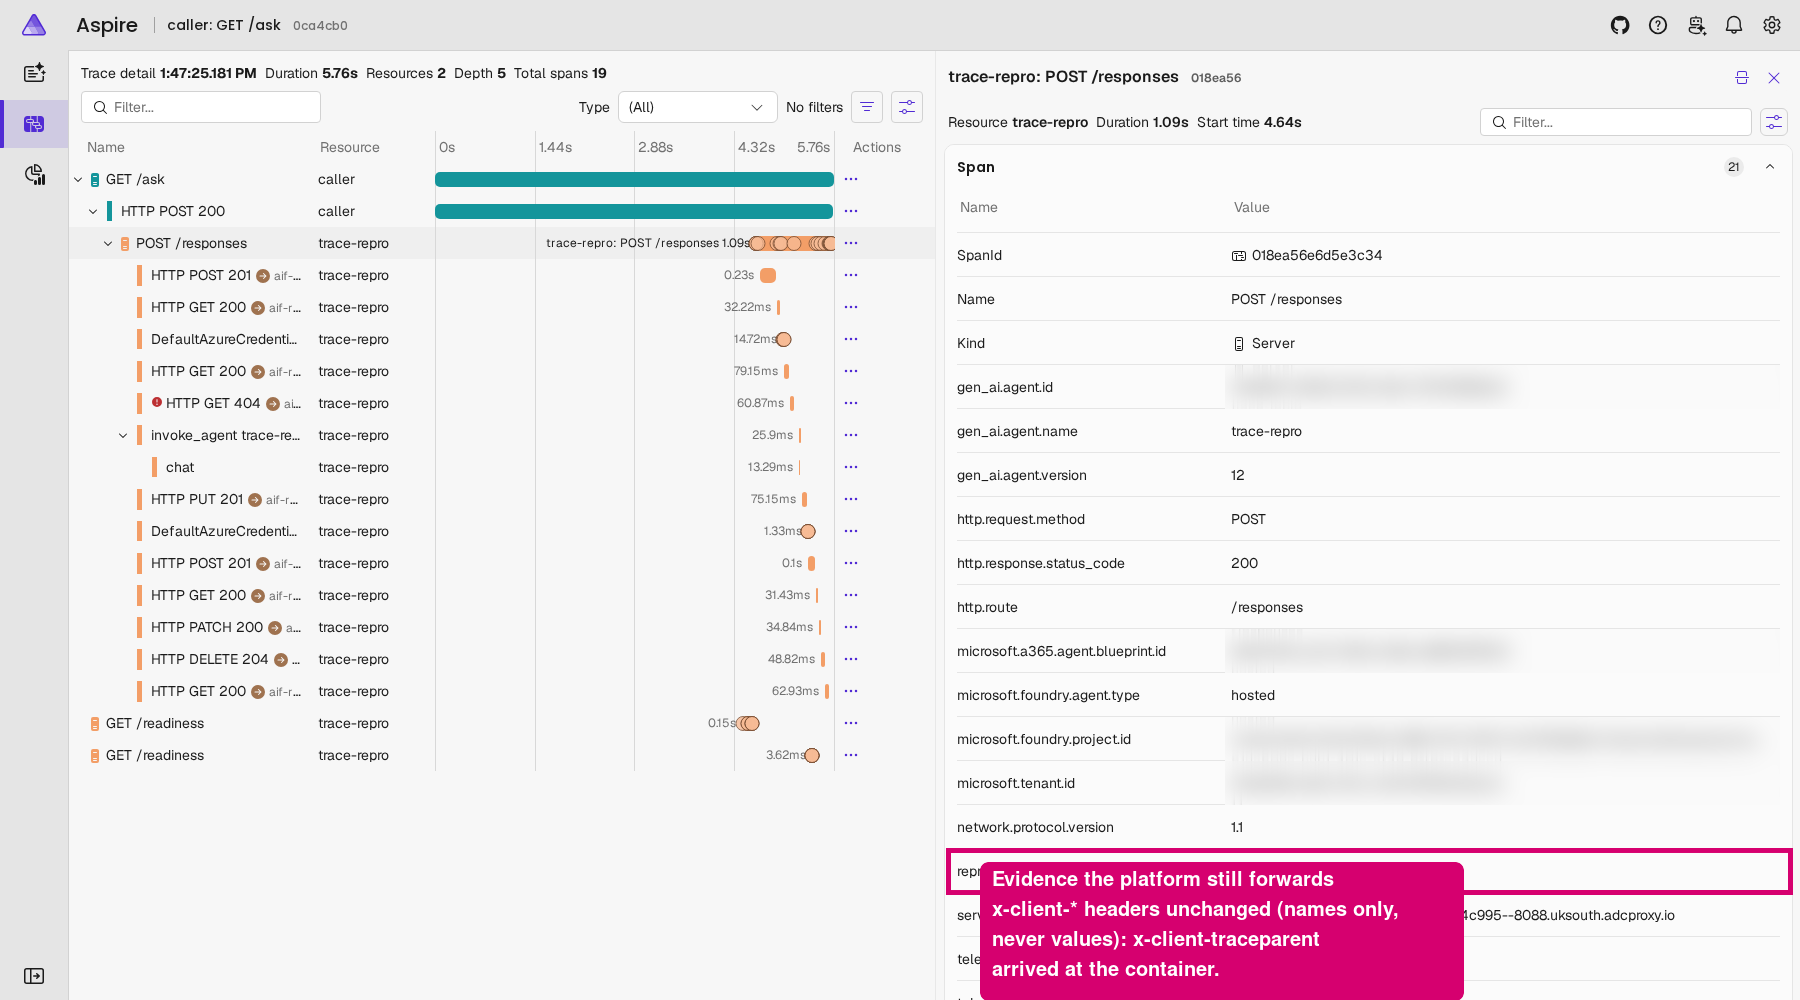
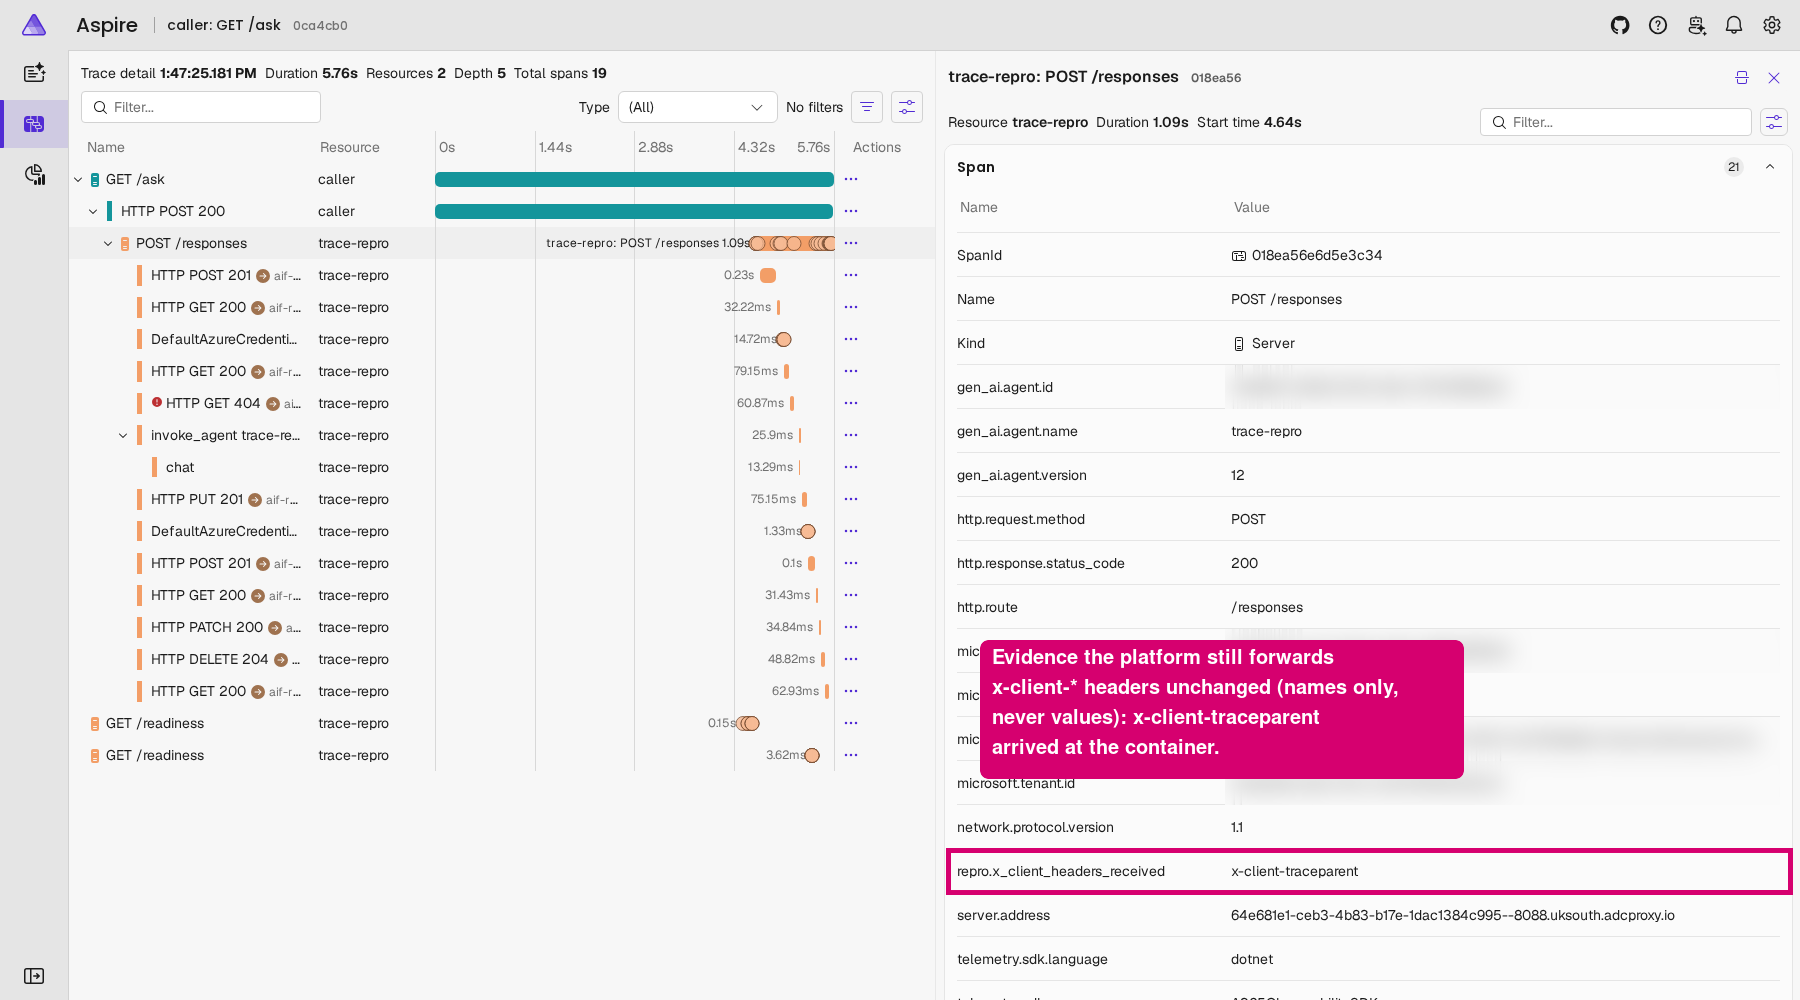
Address PR review: fix callout, drop forced sampling, trim history
- docs/images/08-xclient-headers-received.png: move the pink callout so
  it no longer covers the repro.x_client_headers_received value; it now
  sits over the already-blurred rows above the outlined one, matching
  the 3ad5a78 layout. Re-annotated from the redacted (unannotated)
  capture, redaction and -strip unchanged.
- agent/ClientHeaderLink.cs: sample PropagationData instead of
  AllDataAndRecorded. The listener only needs ActivityStarted to add its
  link; forcing AllDataAndRecorded overrode the distro's own sampler for
  every Microsoft.AspNetCore activity.
- README: cut the A365 debugging-history paragraph to one sentence
  (both overrides are needed, one alone does not join), and drop the
  "earlier attempt" asides from step 2 and the ClientHeaderTraceParent
  doc comment.
- README/Program.cs: both now say the DI propagator is captured inside
  WebApplication.CreateSlimBuilder (confirmed against AgentHostBuilder's
  constructor), which AgentHost.CreateBuilder calls.
- README: link the Microsoft Learn doc for the x-client- pass-through
  header contract (hosted-agent-contract#forward-custom-request-headers-to-your-container),
  found via search, not invented.

Claude-Session: https://claude.ai/code/session_01Ttd2BrYapGTagWFKUjK6Yt

Changed region(s): [[0.5289, 0.837, 0.84, 1.0], [0.5289, 0.62, 0.84, 0.806]]

diff --git a/agent/ClientHeaderLink.cs b/agent/ClientHeaderLink.cs
@@ -25,7 +25,10 @@ internal static class ClientHeaderLink
         ActivitySource.AddActivityListener(new ActivityListener
         {
             ShouldListenTo = source => source.Name == AspNetCoreSourceName,
-            Sample = (ref ActivityCreationOptions<ActivityContext> _) => ActivitySamplingResult.AllDataAndRecorded,
+            // PropagationData, not AllDataAndRecorded: this listener only needs ActivityStarted to add a
+            // link, and must not force every Microsoft.AspNetCore activity to be recorded -- that
+            // decision belongs to the distro's own sampler, via its own ActivityListener on this source.
+            Sample = (ref ActivityCreationOptions<ActivityContext> _) => ActivitySamplingResult.PropagationData,
             ActivityStarted = activity => AddPlatformLinkIfDifferent(activity, httpContextAccessor.HttpContext),
         });
 

diff --git a/agent/ClientHeaderTraceParent.cs b/agent/ClientHeaderTraceParent.cs
@@ -8,8 +8,7 @@ namespace FixedReplyAgent;
 /// agrees. If they disagreed, OpenTelemetry's ASP.NET Core instrumentation would see its own extraction
 /// (via <see cref="ClientHeaderTextMapPropagator"/>) differ from the parent the hosting layer already
 /// gave the activity (via <see cref="ClientHeaderContextPropagator"/>) and would discard that activity,
-/// starting a replacement server span parented to its own extraction instead -- see the README's
-/// "Workaround" section for why that is what actually broke the join the first time around.
+/// starting a replacement server span parented to its own extraction instead.
 /// </summary>
 internal static class ClientHeaderTraceParent
 {

diff --git a/README.md b/README.md
@@ -119,7 +119,7 @@ SUBSCRIPTION=<subscription-id> ./teardown.sh
 
 ## Workaround: x-client-* headers
 
-The asks above still stand: this is a workaround, not a fix, built after being told Foundry's hosted-agent runtime forwards `x-client-*`-prefixed headers unchanged, while it rewrites the plain `traceparent`. The idea: have the caller send its real parent twice, once as the plain `traceparent` (which the platform rewrites) and once as `x-client-traceparent` (which it does pass through), and have the agent prefer the second one when extracting its own context. **It works:** with the switch on, the agent's `POST /responses` is a child of the caller's `POST`, in one connected trace.
+The asks above still stand: this is a workaround, not a fix, built on the documented [pass-through client header prefix](https://learn.microsoft.com/en-us/azure/foundry/agents/concepts/hosted-agent-contract#forward-custom-request-headers-to-your-container), `x-client-`, which the gateway forwards to the container unchanged, unlike the plain `traceparent`. The idea: have the caller send its real parent twice, once as the plain `traceparent` (which the platform rewrites) and once as `x-client-traceparent` (which it does pass through), and have the agent prefer the second one when extracting its own context. **It works:** with the switch on, the agent's `POST /responses` is a child of the caller's `POST`, in one connected trace.
 
 It is a deploy-time switch, off by default: `clientHeaderPropagation bool = false` in `infra/main.bicep`, wired to a `CLIENT_HEADER_PROPAGATION` environment variable on both the caller container and the agent version. Deploy with it on:
 
@@ -133,14 +133,14 @@ CLIENT_HEADER_PROPAGATION=true SUBSCRIPTION=<subscription-id> ./deploy.sh
 
 **Agent side**, when on, two separate overrides both have to be in place, or the join does not happen:
 
-1. `agent/ClientHeaderContextPropagator.cs` is a `DistributedContextPropagator` that prefers `x-client-traceparent`/`x-client-tracestate`/`x-client-baggage` when present and valid, falling back to the platform's default otherwise. Getting this registered in the right place took checking the hosting library's own source: `Sdk.SetDefaultTextMapPropagator` and `DistributedContextPropagator.Current` are both the *wrong* extension point here, because ASP.NET Core's hosting layer resolves the propagator for its own server-span creation from DI (`services.TryAddSingleton(DistributedContextPropagator.Current)`, captured once while `AgentHost.CreateBuilder` sets up its `WebApplication` builder, before application code runs), not by re-reading `.Current` per request. So the override is registered as a later DI singleton instead, which wins:
+1. `agent/ClientHeaderContextPropagator.cs` is a `DistributedContextPropagator` that prefers `x-client-traceparent`/`x-client-tracestate`/`x-client-baggage` when present and valid, falling back to the platform's default otherwise. Getting this registered in the right place took checking the hosting library's own source: `Sdk.SetDefaultTextMapPropagator` and `DistributedContextPropagator.Current` are both the *wrong* extension point here, because ASP.NET Core's hosting layer resolves the propagator for its own server-span creation from DI (`services.TryAddSingleton(DistributedContextPropagator.Current)`, captured once inside `WebApplication.CreateSlimBuilder`, which `AgentHost.CreateBuilder` calls to set up its builder before application code runs), not by re-reading `.Current` per request. So the override is registered as a later DI singleton instead, which wins:
 
    ```csharp
    builder.Services.AddSingleton<DistributedContextPropagator>(
        new ClientHeaderContextPropagator(DistributedContextPropagator.Current));
    ```
 
-2. `agent/ClientHeaderTextMapPropagator.cs`, installed with `Sdk.SetDefaultTextMapPropagator` from inside `ConfigureOpenTelemetryTracerProvider` (so it runs after `AgentHost.CreateBuilder` has installed its own default, and wins). This one was the missing piece in an earlier attempt at this workaround, which shipped only the DI propagator above and still saw the agent's span parented to the platform's rewritten `traceparent`. The DI propagator **does** correctly parent the ASP.NET Core activity to `x-client-traceparent` — but OpenTelemetry's ASP.NET Core instrumentation (`OpenTelemetry.Instrumentation.AspNetCore`) performs a *second*, independent extraction of its own, from `Propagators.DefaultTextMapPropagator`, to decide what to export. When that second extraction's trace id, parent span id or trace state disagree with the activity the DI propagator already parented, the instrumentation discards that activity and starts a replacement parented to its own extraction instead — and it is the replacement that gets exported. So without this second override, the DI propagator's correct work was silently thrown away every time. Both overrides share one parsing rule, `agent/ClientHeaderTraceParent.cs` (fed through the shared header names in `agent/ClientHeaderNames.cs`), so the two extractions can never disagree with each other.
+2. `agent/ClientHeaderTextMapPropagator.cs`, installed with `Sdk.SetDefaultTextMapPropagator` from inside `ConfigureOpenTelemetryTracerProvider` (so it runs after `AgentHost.CreateBuilder` has installed its own default, and wins). It is required because OpenTelemetry's ASP.NET Core instrumentation (`OpenTelemetry.Instrumentation.AspNetCore`) performs a *second*, independent extraction of its own, from `Propagators.DefaultTextMapPropagator`, to decide what to export. When that second extraction's trace id, parent span id or trace state disagree with the activity the DI propagator (above) already parented, the instrumentation discards that activity and starts a replacement parented to its own extraction instead — and it is the replacement that gets exported. Both overrides share one parsing rule, `agent/ClientHeaderTraceParent.cs` (fed through the shared header names in `agent/ClientHeaderNames.cs`), so the two extractions can never disagree with each other.
 
 `agent/ClientHeaderLink.cs` additionally adds a span link to whatever context the platform's own `traceparent` carried, whenever it differs from `x-client-traceparent`, using an `ActivityListener` on the `Microsoft.AspNetCore` source rather than a span processor, so it runs synchronously before the span is exported and needs no `TracerProviderBuilder` changes. It stays visible in the trace below purely as a secondary link, not as the span's parent.
 
@@ -166,7 +166,7 @@ The screenshots below are from a deployment with the switch on (agent version 12
 
 *The span link `ClientHeaderLink` still adds, pointing at the context the platform's own (rewritten) `traceparent` carried. Unlike before, this is now purely informational: the link target is not the span's ParentId, which already correctly points at the caller.*
 
-This workaround needs both propagator overrides because ASP.NET Core's server span is decided twice: once by the hosting layer's own DI-resolved `DistributedContextPropagator` (which creates and parents the activity), and again, independently, by OpenTelemetry's ASP.NET Core instrumentation reading `Propagators.DefaultTextMapPropagator` (which decides what actually gets exported, replacing the activity if its own extraction disagrees). An earlier attempt at this workaround overrode only the first and, seeing the join still fail, concluded a platform-reserved tracing pipeline must be silently taking over parenting. That conclusion was wrong: nothing about Foundry's platform pipeline was involved. The span still carries a `telemetry.sdk.name=A365ObservabilitySDK` attribute either way — it turns out to be just an attribute the hosting layer tags onto the one ASP.NET Core span, not evidence of a second, platform-owned span or pipeline deciding the export.
+Both overrides above are needed: ASP.NET Core's server span is decided twice, once by the hosting layer's DI-resolved `DistributedContextPropagator` and again by OpenTelemetry's ASP.NET Core instrumentation re-extracting from `Propagators.DefaultTextMapPropagator`, so one override alone does not join the trace.
 
 This is still a workaround, not a fix, and the asks to Foundry above still stand: the platform should not need a second, duplicated header just to preserve the caller's real parent, and a caller sending a plain W3C `traceparent` should be able to trust that it comes through unmodified.
 
